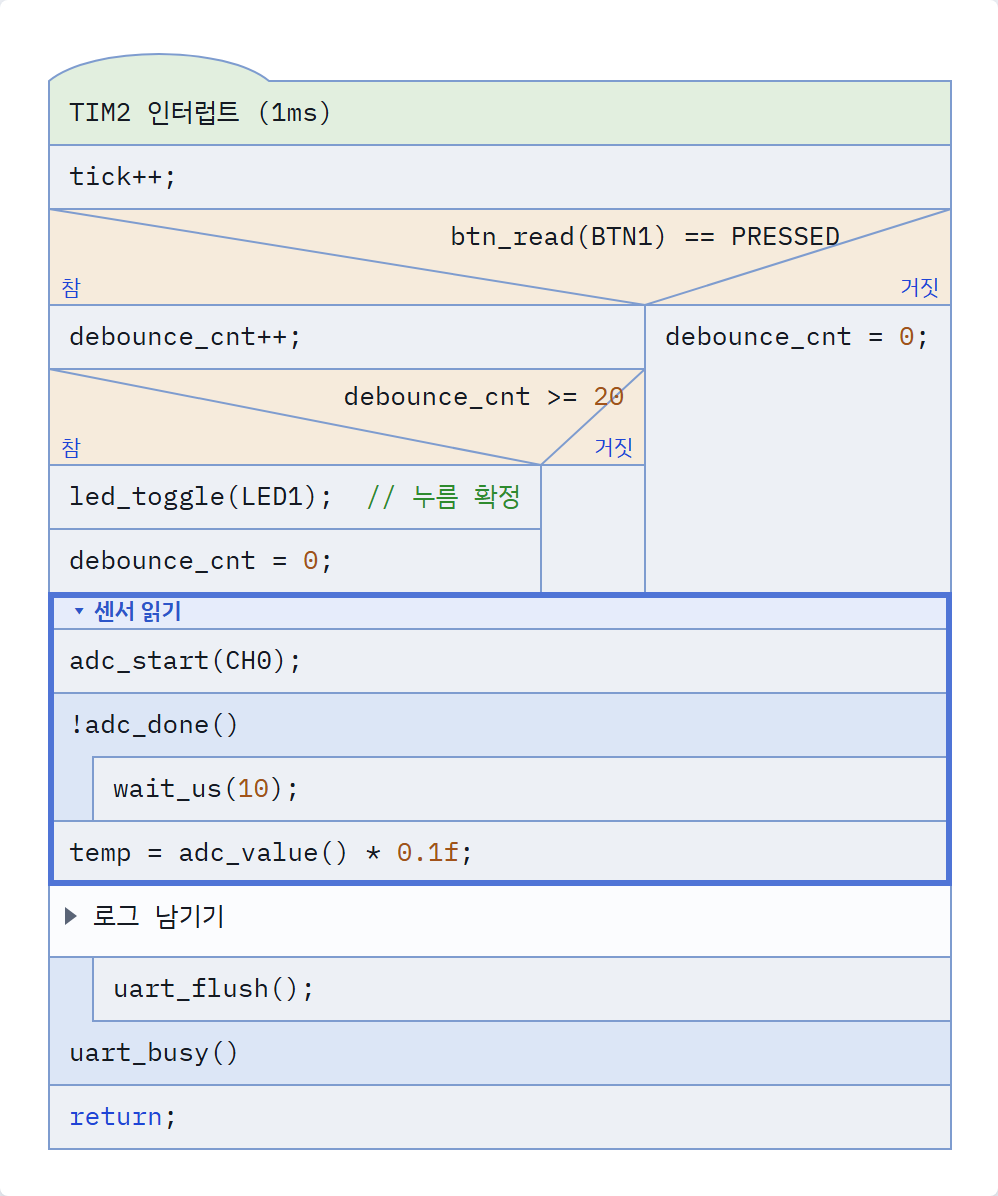
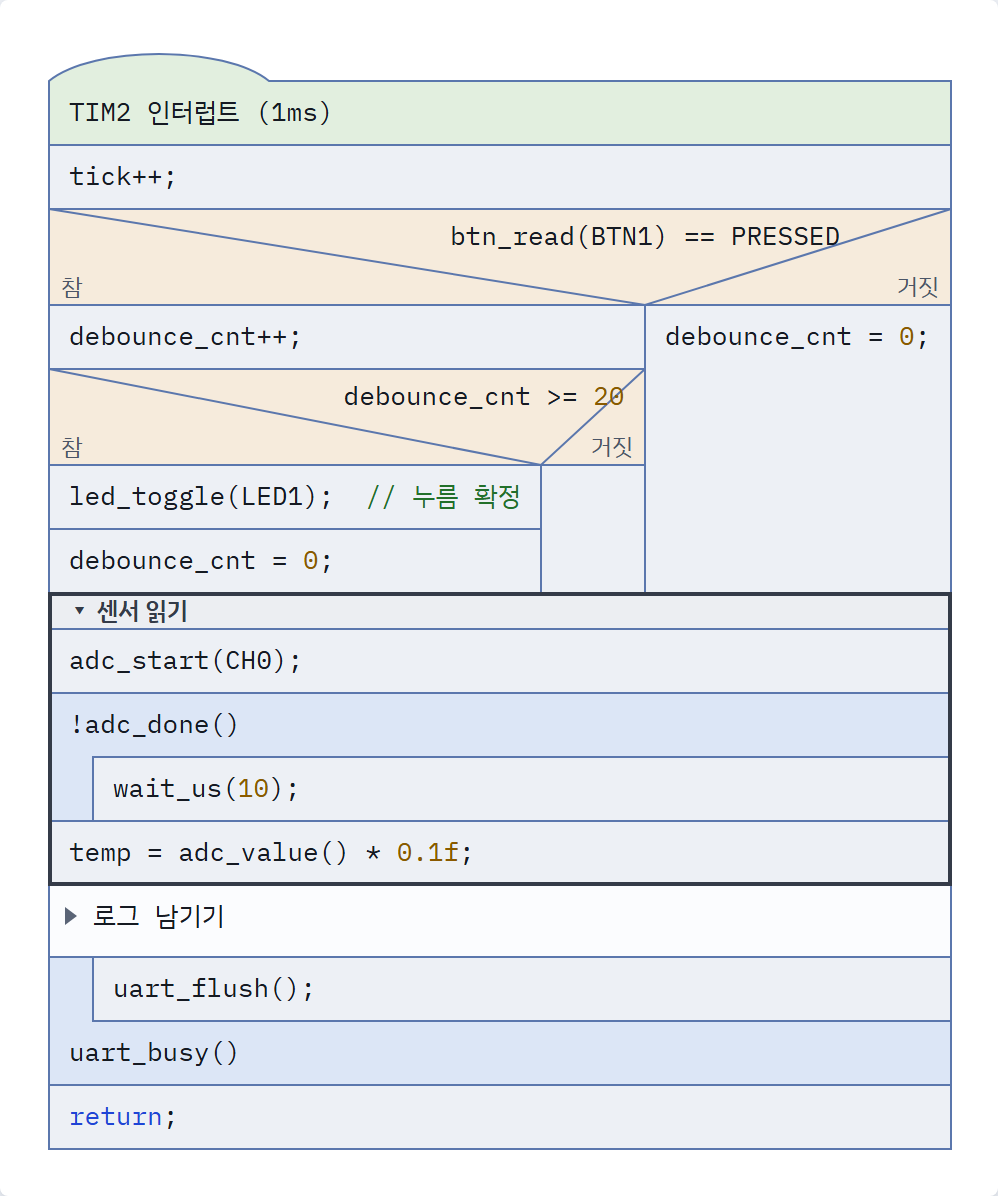
프로토타입 53번째 판: 시각 디자인 점검을 반영(구조선 · 주석 · 숫자 · 펴 보인 글자의 대비, 접기 영역은 무채색 2px, 고른 표시는 바탕 없이, 작은 글자 12px, 고른 것이 없을 때 캔버스 포커스). 시험 5개 더함(169개 통과). 그림을 다시 찍고 색각 · 흑백 그림, 블록 해부도, 색 점검 스크립트를 더함. 52번째 판 그림은 journal/assets로

diff --git a/journal/assets/2026-10-10-ns-prototype.html b/journal/assets/2026-10-10-ns-prototype.html
@@ -50,6 +50,7 @@ kbd { font-family: var(--mono); font-size: 11.5px; border: 1px solid var(--line)
 
 .main { display: grid; grid-template-columns: minmax(0, 1fr) 340px; min-height: 0; }
 .stage { position: relative; overflow: auto; min-width: 0; background-color: var(--bg); background-image: radial-gradient(var(--dots) 1px, transparent 1px); background-size: 18px 18px; padding: 20px; outline: none; }
+.stage.nosel:focus-visible { box-shadow: inset 0 0 0 2px var(--accent); }
 .paper { position: relative; display: inline-block; background: var(--paper); border-radius: 4px; box-shadow: 0 1px 3px rgba(20,30,60,.12), 0 6px 20px rgba(20,30,60,.06); }
 .paper svg { display: block; user-select: none; }
 .opts { position: sticky; top: 0; left: 0; z-index: 3; display: flex; flex-wrap: wrap; gap: 6px 14px; align-items: center; margin-bottom: 14px; padding: 6px 10px; background: var(--panel); border: 1px solid var(--line); border-radius: 6px; width: fit-content; max-width: 100%; font-size: 13px; }
@@ -57,7 +58,7 @@ kbd { font-family: var(--mono); font-size: 11.5px; border: 1px solid var(--line)
 .zoom { display: flex; gap: 4px; align-items: center; }
 .zoom output { min-width: 3.5em; text-align: center; font-variant-numeric: tabular-nums; font-size: 12px; color: var(--muted); }
 
-#editor { position: absolute; z-index: 2; resize: none; overflow: hidden; border: 2px solid #2c55c9; border-radius: 2px; background: #ffffff; color: #151a22; outline: none; box-shadow: 0 2px 10px rgba(44,85,201,.25); line-height: 18px; white-space: pre; }
+#editor { position: absolute; z-index: 2; resize: none; overflow: hidden; border: 2px solid #2c55c9; border-radius: 2px; background: #ffffff; color: #151a22; outline: none; line-height: 18px; white-space: pre; }
 
 .side { border-left: 1px solid var(--line); background: var(--panel); overflow: auto; padding-block: 14px; padding-inline: 18px; min-width: 0; }
 .side h2 { font-size: 13px; font-weight: 600; margin: 18px 0 8px; letter-spacing: .02em; }
@@ -102,7 +103,7 @@ kbd { font-family: var(--mono); font-size: 11.5px; border: 1px solid var(--line)
 
 <div class="app">
   <header class="bar">
-    <div class="brand"><b>AriadneNSD</b><span>요구사항 점검용 프로토타입 · 버리는 코드 · <b id="edition">52번째 판</b></span></div>
+    <div class="brand"><b>AriadneNSD</b><span>요구사항 점검용 프로토타입 · 버리는 코드 · <b id="edition">53번째 판</b></span></div>
     <div class="grp">
       <button data-cmd="new" title="빈 다이어그램">새로</button>
       <button data-cmd="open" title=".ns.svg 파일 열기">열기</button>
@@ -207,7 +208,12 @@ kbd { font-family: var(--mono); font-size: 11.5px; border: 1px solid var(--line)
       </dl>
       <p>대문자는 <kbd>Shift</kbd>와 함께 누릅니다. 글자는 자판의 자리로 읽어서 한글 입력 상태에서도 같습니다. 두 번 누르는 키는 첫 키를 누르면 상태 줄 왼쪽에 그 키가 보이고, 맞지 않는 키나 <kbd>Esc</kbd>를 누르면 그만둡니다.</p>
 
-      <h2>이번에 바뀐 것 (10-15, 52번째 판)</h2>
+      <h2>이번에 바뀐 것 (10-17, 53번째 판)</h2>
+      <ul>
+        <li><b>색과 선을 시각 디자인 문서에 맞췄습니다.</b> 구조선 · 주석 · 숫자 · 펴 보인 글자의 색을 진하게 해 WCAG 대비를 맞췄습니다. 접기 영역의 테두리와 이름 띠는 고른 표시의 파랑과 섞이지 않게 무채색 2px로, 갈래 이름("참" · "거짓")은 키워드의 파랑과 섞이지 않게 회색으로 바꿨습니다. 고른 표시는 바탕을 칠하지 않고 테두리만 둡니다. 작은 글자는 모두 12px입니다. 고른 것이 없을 때 키보드로 캔버스에 오면 캔버스 안쪽에 테두리가 보입니다.</li>
+      </ul>
+
+      <h2>앞서 바뀐 것 (10-15, 52번째 판)</h2>
       <ul>
         <li><b>고른 것을 풀 수 있습니다.</b> <kbd>Esc</kbd>를 두 번 연속 누르거나, 다이어그램 바깥의 빈 캔버스를 누릅니다. 한 번만 누르면 상태 줄에 안내가 뜹니다. 글자를 고치다 누른 <kbd>Esc</kbd>(받아들이기)는 세지 않습니다. 풀린 뒤 이동 키를 누르면 마지막에 골랐던 블록부터 다시 고릅니다.</li>
         <li><b>휠로 블록을 옮겨 다닙니다.</b> 블록을 골랐으면 휠 한 칸이 <kbd>j</kbd> · <kbd>k</kbd> 한 번과 같습니다(<kbd>v</kbd> 영역 고르기 중에는 영역을 넓힙니다). 고르지 않았으면 전처럼 캔버스를 스크롤합니다. 가로 휠과 <kbd>Shift</kbd>+휠은 늘 스크롤입니다.</li>
@@ -768,7 +774,7 @@ function firstIn(list) {
 }
 
 /* ---------- 레이아웃 ---------- */
-const K = { padX: 10, padY: 7, lh: 18, strip: 22, ifLab: 16, hat: 16, minW: 52, bar: 7, gap: 44, colMin: 420, band: 18, caseLab: 28, rb: 3, rgap: 1 };
+const K = { padX: 10, padY: 7, lh: 18, strip: 22, ifLab: 16, hat: 16, minW: 52, bar: 7, gap: 44, colMin: 420, band: 18, caseLab: 28, rb: 2, rgap: 1 };
 const RIN = K.rb + K.rgap;   // 테두리 안에 겹친 테두리가 들어가는 깊이: 테두리 굵기 + 틈
 const FAM_MONO = "IBM Plex Mono, IBM Plex Sans KR, Consolas, Malgun Gothic, monospace";
 const FAM_SANS = "IBM Plex Sans KR, Malgun Gothic, Apple SD Gothic Neo, sans-serif";
@@ -781,9 +787,9 @@ function tsize(text) {
   lines.forEach(l => { w = Math.max(w, cv.measureText(l).width); });
   return { w: Math.ceil(w), h: lines.length * K.lh, lines };
 }
-function tagW(text) { cv.font = `600 11.5px ${FAM_SANS}`; return Math.ceil(cv.measureText(String(text)).width); }
+function tagW(text) { cv.font = `600 12px ${FAM_SANS}`; return Math.ceil(cv.measureText(String(text)).width); }
 function boldW(text) { cv.font = `600 13px ${fam()}`; return Math.ceil(cv.measureText(String(text)).width); }
-function smallW(text, bold) { cv.font = `${bold ? '600 ' : ''}11.5px ${fam()}`; return Math.ceil(cv.measureText(String(text)).width); }
+function smallW(text, bold) { cv.font = `${bold ? '600 ' : ''}12px ${fam()}`; return Math.ceil(cv.measureText(String(text)).width); }
 // 호출 블록의 글자: 결과 ← 이름(인자). 이름은 굵게 그린다. 이어진 곳이 없으면 앞에 "?"
 function callParts(n) {
   const t = n.target != null ? dia(n.target) : null, alive = isMethod(t);
@@ -993,10 +999,12 @@ function layout() {
 
 /* ---------- 그리기 (기본 스타일 C, ADR-0013) ---------- */
 const COL = {
-  stroke: '#7e9ccf', process: '#edf0f5', if: '#f6ebdc', loop: '#dce6f6', event: '#e2efdf',
-  ink: '#151a22', label: '#1f45d6', kw: '#1f45d6', cm: '#2e8b2e', num: '#a1531b', str: '#a1531b',
-  call: '#ebe7f4', muted: '#5a6476', fold: '#fbfcfe', region: '#d0821c', ghost: '#8a93a6', sel: '#2c55c9',
-  edge: '#4f74d6', callEdge: '#8a72c4', callBand: '#ddd4ef', shown: '#6b7386'   // 접기 영역의 테두리, 펴 보인 호출 블록의 점선과 띠, 펴 보인 블록의 글자
+  // 값과 까닭은 docs/02-ux-design/03-visual-design.md (53번째 판에서 WCAG 대비를 맞춤)
+  stroke: '#5b77ad', process: '#edf0f5', if: '#f6ebdc', loop: '#dce6f6', event: '#e2efdf',
+  ink: '#151a22', label: '#4b5567', kw: '#1f45d6', cm: '#22702a', num: '#8a5a00', str: '#8a5a00',
+  call: '#ebe7f4', muted: '#5a6476', fold: '#fbfcfe', sel: '#2c55c9',   // sel은 편집 층(저장되지 않음)에만 쓴다
+  edge: '#343b48', foldBand: '#eceef2', foldName: '#343b48',            // 접기 영역의 테두리, 이름 띠, 띠의 글자 (문서 층이라 무채색)
+  callEdge: '#7a5fb8', callBand: '#ddd4ef', shown: '#555e70'            // 펴 보인 호출 블록의 점선과 띠, 펴 보인 블록의 글자
 };
 let ink = COL.ink;   // 지금 그리는 블록의 글자 색. 펴 보인 블록은 회색으로, 구문 강조 없이 그린다
 const KW = new Set(('if else while for do return break continue switch case default true false null NULL ' +
@@ -1056,8 +1064,8 @@ function drawSVG(lay, ui) {
       s.push(rect(it.x, it.y, it.w, it.h, '#ffffff', ' pointer-events="none"'));
       s.push(`<rect x="${it.x + .5}" y="${it.y + .5}" width="${it.w - 1}" height="${it.band - .5}" fill="${COL.callBand}"${da(it.id)}/>`);
       s.push(`<line x1="${it.x}" y1="${it.y + it.band}" x2="${it.x + it.w}" y2="${it.y + it.band}" stroke="${COL.stroke}" stroke-width="1" pointer-events="none"/>`);
-      s.push(`<text x="${it.x + 10}" y="${it.y + it.band - 5}" font-family="${fam()}" font-size="11.5" fill="${ink}" xml:space="preserve" style="white-space:pre" pointer-events="none">▾ ${esc(p.pre)}<tspan font-weight="600">${esc(p.name)}</tspan>${esc(p.post)}</text>`);
-      over.push(`<rect data-dash="${it.id}" ${e} stroke="#ffffff" stroke-width="${K.rb}"/>`, `<rect ${e} stroke="${COL.callEdge}" stroke-width="1.5" stroke-dasharray="6 4"/>`);
+      s.push(`<text x="${it.x + 10}" y="${it.y + it.band - 5}" font-family="${fam()}" font-size="12" fill="${ink}" xml:space="preserve" style="white-space:pre" pointer-events="none">▾ ${esc(p.pre)}<tspan font-weight="600">${esc(p.name)}</tspan>${esc(p.post)}</text>`);
+      over.push(`<rect data-dash="${it.id}" ${e} stroke="#ffffff" stroke-width="3"/>`, `<rect ${e} stroke="${COL.callEdge}" stroke-width="1" stroke-dasharray="6 4"/>`);
     } else if (it.k === 'loop') {
       s.push(rect(it.x, it.y, it.w, it.h, COL.loop, da(it.id)));
       s.push(txt(it.text, it.x + K.padX, (it.bottom ? it.y + it.h - it.headH : it.y) + K.padY));
@@ -1067,8 +1075,8 @@ function drawSVG(lay, ui) {
       s.push(`<path d="M ${x} ${y} L ${sx} ${y + h} L ${x + w} ${y}" fill="none" stroke="${COL.stroke}" stroke-width="1" pointer-events="none"/>`);
       const cx = Math.min(Math.max(sx, x + t.w / 2 + K.padX), x + w - t.w / 2 - K.padX);
       s.push(txt(it.text, cx, y + K.padY - 2, 'middle'));
-      s.push(`<text x="${x + 6}" y="${y + h - 5}" font-family="${FAM_SANS}" font-size="11" fill="${COL.label}" pointer-events="none">참</text>`);
-      s.push(`<text x="${x + w - 6}" y="${y + h - 5}" text-anchor="end" font-family="${FAM_SANS}" font-size="11" fill="${COL.label}" pointer-events="none">거짓</text>`);
+      s.push(`<text x="${x + 6}" y="${y + h - 5}" font-family="${FAM_SANS}" font-size="12" fill="${COL.label}" pointer-events="none">참</text>`);
+      s.push(`<text x="${x + w - 6}" y="${y + h - 5}" text-anchor="end" font-family="${FAM_SANS}" font-size="12" fill="${COL.label}" pointer-events="none">거짓</text>`);
     } else if (it.k === 'caseHead') {
       // NS 차트의 Case 머리: 왼쪽 위에서 default 갈래의 왼쪽 아래로 긴 빗금, 오른쪽 위에서 같은 점으로 짧은 빗금.
       // 갈래 사이의 세로선은 빗금에서 아래로 내려온다. 갈래 이름은 빗금 아래 오른쪽 구석(default는 왼쪽 구석)에 적는다
@@ -1084,11 +1092,11 @@ function drawSVG(lay, ui) {
       xs.forEach(([bx, lw], i) => {
         const dflt = i === xs.length - 1;
         if (ui) s.push(`<rect x="${bx}" y="${y + h - 20}" width="${lw}" height="20" fill="#ffffff" fill-opacity="0" data-id="${it.id}" data-label="${i}" style="cursor:text"/>`);
-        s.push(`<text x="${dflt ? bx + 6 : bx + lw - 5}" y="${y + h - 5}"${dflt ? '' : ' text-anchor="end"'} font-family="${FAM_SANS}" font-size="11" fill="${COL.label}" pointer-events="none">${esc(it.labels[i])}</text>`);
+        s.push(`<text x="${dflt ? bx + 6 : bx + lw - 5}" y="${y + h - 5}"${dflt ? '' : ' text-anchor="end"'} font-family="${FAM_SANS}" font-size="12" fill="${COL.label}" pointer-events="none">${esc(it.labels[i])}</text>`);
       });
     } else if (it.k === 'foldRow') {
       s.push(rect(it.x, it.y, it.w, it.h, COL.fold, ui ? ` data-id="${it.pid}" data-unfold="1"${it.slot ? ` data-slot="${it.slot}"` : ''}` : ''));
-      s.push(`<text x="${it.x + K.padX}" y="${it.y + K.padY + K.lh - 5}" font-family="${FAM_SANS}" font-size="12.5"${it.named ? '' : ' font-style="italic"'} fill="${it.named ? COL.ink : COL.muted}" xml:space="preserve" style="white-space:pre" pointer-events="none">${esc(it.text)}</text>`);
+      s.push(`<text x="${it.x + K.padX}" y="${it.y + K.padY + K.lh - 5}" font-family="${FAM_SANS}" font-size="12"${it.named ? '' : ' font-style="italic"'} fill="${it.named ? COL.ink : COL.muted}" xml:space="preserve" style="white-space:pre" pointer-events="none">${esc(it.text)}</text>`);
     } else if (it.k === 'rangeFold') {
       const { x, y, w, h } = it;
       s.push(rect(x, y, w, h, COL.fold, da(it.id)));
@@ -1098,23 +1106,20 @@ function drawSVG(lay, ui) {
   }
   ink = COL.ink;
   s.push(...over);
-  // 강조 영역: 레이아웃이 끝난 뒤 굵은 테두리만 덧그린다 (ADR-0015). 안으로 들여 그려서 맞붙은 영역도 따로 보인다
-  for (const r of lay.regions)
-    s.push(`<rect x="${r.x + 3}" y="${r.y + 3}" width="${r.w - 6}" height="${r.h - 6}" fill="none" stroke="${COL.region}" stroke-width="3" rx="2" pointer-events="none"/>`);
   {
     // 이름 띠는 저장되는 그림에도 그린다 (화면 그대로 저장)
-    const view = regionView(), c = COL.sel, used = new Map();
-    const tag = (x, y, text, anchor) => `<text x="${x}" y="${y}"${anchor ? ` text-anchor="${anchor}"` : ''} font-family="${FAM_SANS}" font-size="11.5" font-weight="600" fill="${c}" stroke="#ffffff" stroke-width="3.5" paint-order="stroke" pointer-events="none">${esc(text)}</text>`;
+    const view = regionView(), c = COL.foldName, used = new Map();
+    const tag = (x, y, text, anchor) => `<text x="${x}" y="${y}"${anchor ? ` text-anchor="${anchor}"` : ''} font-family="${FAM_SANS}" font-size="12" font-weight="600" fill="${c}" stroke="#ffffff" stroke-width="3.5" paint-order="stroke" pointer-events="none">${esc(text)}</text>`;
     for (const g of lay.ghosts) {
       const d = 2.5 + (g.depth || 0) * 4;
       if (view === 'band') {
         // 이름 띠: 영역 맨 위에 이름 줄을 하나 더한다. 블록 글자와 겹치지 않지만 그림이 그만큼 길어진다
         // 테두리: 영역의 둘레를 굵은 실선으로 두른다. 겹치거나 이어져도 상자가 따로 보인다. 누르는 곳은 띠다
         const hit = ui ? ` data-id="${g.id}" data-band="1" style="cursor:pointer"` : '';
-        s.push(`<rect x="${g.x - .5}" y="${g.y - .5}" width="${g.w + 1}" height="${g.band + .5}" fill="#e6ecfb"${hit}/>`);
+        s.push(`<rect x="${g.x - .5}" y="${g.y - .5}" width="${g.w + 1}" height="${g.band + .5}" fill="${COL.foldBand}"${hit}/>`);
         s.push(`<line x1="${g.x}" y1="${g.y + g.band}" x2="${g.x + g.w}" y2="${g.y + g.band}" stroke="${COL.stroke}" stroke-width="1" pointer-events="none"/>`);
-        s.push(`<rect data-edge="${g.id}" x="${g.x + 1}" y="${g.y + 1}" width="${g.w - 2}" height="${g.h - 2}" fill="none" stroke="${COL.edge}" stroke-width="${K.rb}" pointer-events="none"/>`);
-        s.push(`<text x="${g.x + 10}" y="${g.y + g.band - 5}" font-family="${FAM_SANS}" font-size="11.5" font-weight="600"${g.named ? '' : ' font-style="italic"'} fill="${c}" pointer-events="none">▾ ${esc(g.text)}</text>`);
+        s.push(`<rect data-edge="${g.id}" x="${g.x + .5}" y="${g.y + .5}" width="${g.w - 1}" height="${g.h - 1}" fill="none" stroke="${COL.edge}" stroke-width="${K.rb}" pointer-events="none"/>`);
+        s.push(`<text x="${g.x + 10}" y="${g.y + g.band - 5}" font-family="${FAM_SANS}" font-size="12" font-weight="600"${g.named ? '' : ' font-style="italic"'} fill="${c}" pointer-events="none">▾ ${esc(g.text)}</text>`);
         continue;
       }
       s.push(`<rect x="${g.x + d}" y="${g.y + d}" width="${g.w - 2 * d}" height="${g.h - 2 * d}" fill="none" stroke="${c}" stroke-width="1.5" stroke-dasharray="5 3"${view === 'gutter' ? ' stroke-opacity="0.55"' : ''} pointer-events="none"/>`);
@@ -1135,7 +1140,7 @@ function drawSVG(lay, ui) {
       if (boxes.every(Boolean)) {
         const x1 = Math.min(...boxes.map(b => b.x)), y1 = Math.min(...boxes.map(b => b.y));
         const x2 = Math.max(...boxes.map(b => b.x + b.w)), y2 = Math.max(...boxes.map(b => b.y + b.h));
-        s.push(`<rect data-selbox="" x="${x1 + 1}" y="${y1 + 1}" width="${x2 - x1 - 2}" height="${y2 - y1 - 2}" fill="${COL.sel}" fill-opacity="0.10" stroke="${COL.sel}" stroke-width="2" pointer-events="none"/>`);
+        s.push(`<rect data-selbox="" x="${x1 + .5}" y="${y1 + .5}" width="${x2 - x1 - 1}" height="${y2 - y1 - 1}" fill="none" stroke="${COL.sel}" stroke-width="2" pointer-events="none"/>`);
       }
     }
   }
@@ -1150,6 +1155,7 @@ function render() {
   svg.innerHTML = drawSVG(lay, true);
   $('#zoomOut').textContent = Math.round(zoom * 100) + '%';
   $('#where').textContent = describeSel();
+  $('.stage').classList.toggle('nosel', !sel);
   showMode();
   if (sel && diaOf(sel.anchor)) lastDia = diaOf(sel.anchor).id;
 }

diff --git a/journal/assets/2026-10-17-visual-anatomy.py b/journal/assets/2026-10-17-visual-anatomy.py
@@ -1,0 +1,113 @@
+# 시각 디자인 문서의 블록 해부도를 그린다: 블록마다 치수(프로토타입의 K 값)를 단 SVG
+# 쓰는 법: py 2026-10-17-visual-anatomy.py <내보낼 svg 경로>
+# 치수는 journal/assets/2026-10-10-ns-prototype.html의 K와 COL(53번째 판)과 같아야 한다
+import sys
+
+K = dict(padX=10, padY=7, lh=18, strip=22, ifLab=16, hat=16, bar=7, band=18, rb=2, rgap=1)
+C = dict(stroke='#5b77ad', process='#edf0f5', branch='#f6ebdc', loop='#dce6f6', event='#e2efdf', call='#ebe7f4',
+         ink='#151a22', label='#4b5567', edge='#343b48', foldBand='#eceef2', foldName='#343b48',
+         callEdge='#7a5fb8', callBand='#ddd4ef', shown='#555e70')
+DIM = '#c2410c'   # 치수선: 다이어그램의 어느 색과도 겹치지 않는 주황
+MONO = 'IBM Plex Mono, IBM Plex Sans KR, Consolas, monospace'
+SANS = 'IBM Plex Sans KR, Malgun Gothic, sans-serif'
+out = []
+def a(s): out.append(s)
+def rect(x, y, w, h, fill, extra=''): a(f'<rect x="{x}" y="{y}" width="{w}" height="{h}" fill="{fill}" stroke="{C["stroke"]}" stroke-width="1"{extra}/>')
+def text(x, y, s, size=13, fill=C['ink'], fam=MONO, extra=''): a(f'<text x="{x}" y="{y}" font-family="{fam}" font-size="{size}" fill="{fill}"{extra}>{s}</text>')
+def title(x, y, s): text(x, y, s, 13, '#1c2230', SANS, ' font-weight="600"')
+def hdim(x1, x2, y, label, up=True):
+    a(f'<path d="M{x1} {y} H{x2} M{x1} {y-3} V{y+3} M{x2} {y-3} V{y+3}" stroke="{DIM}" stroke-width="1" fill="none"/>')
+    text((x1 + x2) / 2, y - 4 if up else y + 12, label, 10, DIM, SANS, ' text-anchor="middle"')
+def vdim(x, y1, y2, label, right=True):
+    a(f'<path d="M{x} {y1} V{y2} M{x-3} {y1} H{x+3} M{x-3} {y2} H{x+3}" stroke="{DIM}" stroke-width="1" fill="none"/>')
+    text(x + 5 if right else x - 5, (y1 + y2) / 2 + 3.5, label, 10, DIM, SANS, '' if right else ' text-anchor="end"')
+
+W = 230   # 블록 폭
+# 1. 처리
+x, y = 70, 60
+title(x, y - 24, '처리')
+rect(x, y, W, 2 * K['padY'] + K['lh'], C['process'])
+text(x + K['padX'], y + K['padY'] + K['lh'] - 5, 'tick++;')
+hdim(x, x + K['padX'], y - 6, 'padX 10')
+vdim(x + W + 10, y, y + K['padY'], 'padY 7')
+vdim(x + W + 60, y + K['padY'], y + K['padY'] + K['lh'], '줄 18')
+vdim(x - 10, y, y + 32, '32', right=False)
+
+# 2. If
+x, y = 400, 60
+title(x, y - 24, 'If')
+h = 2 * K['padY'] + K['lh'] + K['ifLab'] - 2; sx = x + 150
+rect(x, y, W, h, C['branch'])
+a(f'<path d="M{x} {y} L{sx} {y+h} L{x+W} {y}" fill="none" stroke="{C["stroke"]}" stroke-width="1"/>')
+text(sx, y + K['padY'] + K['lh'] - 7, 'btn == PRESSED', 13, C['ink'], MONO, ' text-anchor="middle"')
+text(x + 6, y + h - 5, '참', 12, C['label'], SANS); text(x + W - 6, y + h - 5, '거짓', 12, C['label'], SANS, ' text-anchor="end"')
+rect(x, y + h, sx - x, 32, C['process']); rect(sx, y + h, x + W - sx, 32, C['process'])
+vdim(x + W + 10, y + h - K['ifLab'], y + h, '갈래 이름 줄 16')
+hdim(x, x + 6, y + h + 44, '6', up=False)
+text(x, y + h + 74, '빗금의 꼭짓점 = 두 갈래의 경계', 10, DIM, SANS)
+text(x, y + h + 88, '조건은 그 위 가운데, 갈래 이름은 12px', 10, DIM, SANS)
+
+# 3. While
+x, y = 70, 250
+title(x, y - 24, 'While (Do-While은 머리가 아래)')
+rect(x, y, W, 96, C['loop'])
+text(x + K['padX'], y + K['padY'] + K['lh'] - 5, 'j &lt; hi')
+rect(x + K['strip'], y + 32, W - K['strip'], 32, C['process']); rect(x + K['strip'], y + 64, W - K['strip'], 32, C['process'])
+text(x + K['strip'] + K['padX'], y + 32 + K['padY'] + K['lh'] - 5, 'i++;')
+hdim(x, x + K['strip'], y + 110, '띠 22', up=False)
+
+# 4. 호출 블록
+x, y = 400, 250
+title(x, y - 24, '호출 블록')
+rect(x, y, W, 32, C['call'])
+for bx in (x + K['bar'], x + W - K['bar']): a(f'<line x1="{bx}" y1="{y}" x2="{bx}" y2="{y+32}" stroke="{C["stroke"]}" stroke-width="1"/>')
+text(x + K['padX'] + K['bar'], y + K['padY'] + K['lh'] - 5, 'p ← <tspan font-weight="700">partition</tspan>(a, lo)')
+hdim(x, x + K['bar'], y - 6, '7')
+text(x, y + 50, '이름은 굵게, 인자와 결과는 보통 (ADR-0022)', 10, DIM, SANS)
+text(x, y + 64, '부를 Method가 없으면 이중선이 점선', 10, DIM, SANS)
+
+# 5. Event 머리 / Method 머리
+x, y = 70, 440
+title(x, y - 34, 'Event 머리 · Method 머리')
+top = y + K['hat']; bw = min(110, W * 0.45)
+a(f'<path d="M{x} {top} C{x+22} {y-2},{x+bw-22} {y-2},{x+bw} {top} L{x+W} {top} L{x+W} {top+32} L{x} {top+32} Z" fill="{C["event"]}" stroke="{C["stroke"]}" stroke-width="1"/>')
+text(x + K['padX'], top + K['padY'] + K['lh'] - 5, 'TIM2 인터럽트')
+vdim(x - 10, y, top, '모자 16', right=False)
+hdim(x, x + bw, y - 8, 'min(110, 폭×0.45)')
+y2 = y + 80; top = y2 + K['hat']
+a(f'<path d="M{x} {top} C{x+W*0.2} {y2+1},{x+W*0.8} {y2+1},{x+W} {top} L{x+W} {top+32} L{x} {top+32} Z" fill="{C["call"]}" stroke="{C["stroke"]}" stroke-width="1"/>')
+text(x + K['padX'], top + K['padY'] + K['lh'] - 5, 'partition(a, lo, hi)')
+text(x, top + 50, 'Method는 폭 전체의 낮은 아치, 색은 호출 블록과 같음', 10, DIM, SANS)
+
+# 6. 펴진 접기 영역과 펴 보인 호출 블록
+x, y = 400, 420
+title(x, y - 24, '펴진 접기 영역 · 펴 보인 호출 블록')
+a(f'<rect x="{x}" y="{y}" width="{W}" height="{K["band"]}" fill="{C["foldBand"]}"/>')
+a(f'<line x1="{x}" y1="{y+K["band"]}" x2="{x+W}" y2="{y+K["band"]}" stroke="{C["stroke"]}" stroke-width="1"/>')
+text(x + 10, y + K['band'] - 5, '▾ 센서 읽기', 12, C['foldName'], SANS, ' font-weight="600"')
+rect(x, y + K['band'], W, 32, C['process']); text(x + K['padX'], y + K['band'] + K['padY'] + K['lh'] - 5, 'adc_start(CH0);')
+a(f'<rect x="{x+.5}" y="{y+.5}" width="{W-1}" height="{K["band"]+31}" fill="none" stroke="{C["edge"]}" stroke-width="2"/>')
+vdim(x + W + 10, y, y + K['band'], '띠 18')
+text(x + W + 6, y + 40, '테두리 2px 실선', 10, DIM, SANS)
+y3 = y + 90
+rect(x, y3, W, K['band'] + 32, '#ffffff')
+a(f'<rect x="{x+.5}" y="{y3+.5}" width="{W-1}" height="{K["band"]-.5}" fill="{C["callBand"]}"/>')
+a(f'<line x1="{x}" y1="{y3+K["band"]}" x2="{x+W}" y2="{y3+K["band"]}" stroke="{C["stroke"]}" stroke-width="1"/>')
+text(x + 10, y3 + K['band'] - 5, '▾ p ← <tspan font-weight="600">partition</tspan>(a, lo)', 12, C['shown'])
+text(x + K['padX'] + 4, y3 + K['band'] + K['padY'] + K['lh'] - 5, 'pivot = a[hi];', 13, C['shown'])
+a(f'<rect x="{x+2}" y="{y3+2}" width="{W-4}" height="{K["band"]+28}" fill="none" stroke="#ffffff" stroke-width="3"/>')
+a(f'<rect x="{x+2}" y="{y3+2}" width="{W-4}" height="{K["band"]+28}" fill="none" stroke="{C["callEdge"]}" stroke-width="1" stroke-dasharray="6 4"/>')
+text(x + W + 6, y3 + 22, '점선 1px (6 · 4)', 10, DIM, SANS)
+text(x + W + 6, y3 + 36, '바깥 선에서 1px 안', 10, DIM, SANS)
+text(x + W + 6, y3 + 50, '글자는 회색, 강조 없음', 10, DIM, SANS)
+
+body = '\n'.join(out)
+svg = f'''<svg xmlns="http://www.w3.org/2000/svg" width="780" height="640" viewBox="0 0 780 640">
+<rect width="780" height="640" fill="#ffffff"/>
+<g transform="translate(.5 .5)">
+{body}
+</g>
+</svg>
+'''
+open(sys.argv[1], 'w', encoding='utf-8', newline='\n').write(svg)
+print('saved', sys.argv[1])

diff --git a/journal/assets/2026-10-17-color-check.py b/journal/assets/2026-10-17-color-check.py
@@ -1,0 +1,45 @@
+# 시각 디자인 문서의 색 점검: WCAG 명도 대비와 색각 이상 시뮬레이션(Machado 2009, 심한 정도 1.0) 뒤의 색 차이(CIEDE2000이 아닌 CIE76 ΔE)
+# 쓰는 법: py 2026-10-17-color-check.py
+import itertools, math
+M = {
+ 'protan': [[0.152286,1.052583,-0.204868],[0.114503,0.786281,0.099216],[-0.003882,-0.048116,1.051998]],
+ 'deutan': [[0.367322,0.860646,-0.227968],[0.280085,0.672501,0.047413],[-0.011820,0.042940,0.968881]],
+ 'tritan': [[1.255528,-0.076749,-0.178779],[-0.078411,0.930809,0.147602],[0.004733,0.691367,0.303900]],
+}
+def lin(h): return [ (x/12.92 if x<=0.04045 else ((x+0.055)/1.055)**2.4) for x in (int(h[i:i+2],16)/255 for i in (1,3,5))]
+def lum(c): return 0.2126*c[0]+0.7152*c[1]+0.0722*c[2]
+def cr(a,b):
+    x,y=sorted([lum(lin(a)),lum(lin(b))],reverse=True); return (x+.05)/(y+.05)
+def lab(c):
+    X=0.4124*c[0]+0.3576*c[1]+0.1805*c[2]; Y=0.2126*c[0]+0.7152*c[1]+0.0722*c[2]; Z=0.0193*c[0]+0.1192*c[1]+0.9505*c[2]
+    f=lambda t: t**(1/3) if t>0.008856 else 7.787*t+16/116
+    fx,fy,fz=f(X/0.95047),f(Y),f(Z/1.08883); return (116*fy-16,500*(fx-fy),200*(fy-fz))
+def sim(c,k): m=M[k]; return [max(0,min(1,sum(m[i][j]*c[j] for j in range(3)))) for i in range(3)]
+def dE(a,b): return math.dist(lab(a),lab(b))
+def report(name, cols):
+    print('==', name)
+    for (n1,h1),(n2,h2) in itertools.combinations(cols.items(),2):
+        a,b=lin(h1),lin(h2)
+        row=[f'{dE(a,b):5.1f}']+[f'{dE(sim(a,k),sim(b,k)):5.1f}' for k in M]
+        print(f'{n1:>10} / {n2:<10} ΔE normal {row[0]}  protan {row[1]} deutan {row[2]} tritan {row[3]}')
+if __name__=='__main__':
+    import sys
+    fills={'process':'#edf0f5','branch':'#f6ebdc','loop':'#dce6f6','event':'#e2efdf','call':'#ebe7f4'}
+    report('블록 바탕', fills)
+    report('구문 강조 (바탕 #edf0f5)', {'text':'#151a22','keyword':'#1f45d6','comment':'#2e8b2e','literal':'#a1531b'})
+
+# 53번째 판의 문서 색: 글자와 선을 모든 바탕에 대어 본 대비 (가장 낮은 값이 기준을 넘는지)
+FILLS = {'paper':'#ffffff','process':'#edf0f5','branch':'#f6ebdc','loop':'#dce6f6','event':'#e2efdf','call':'#ebe7f4','folded':'#fbfcfe','fold.band':'#eceef2','peek.band':'#ddd4ef'}
+FG = {'text':'#151a22','text.label':'#4b5567','text.muted':'#5a6476','syntax.keyword':'#1f45d6','syntax.comment':'#22702a','syntax.literal':'#8a5a00',
+      'fold.name':'#343b48','peek.text':'#555e70','line (3:1)':'#5b77ad','fold.edge (3:1)':'#343b48','peek.edge (3:1)':'#7a5fb8','edit.select (3:1)':'#2c55c9'}
+def L_star(h):
+    y=lum(lin(h)); return 116*(y**(1/3) if y>0.008856 else 7.787*y+16/116)-16
+if __name__=='__main__':
+    print('== 53번째 판 대비 (최저 / 최고, 바탕 블록 다섯과 종이)')
+    base=['paper','process','branch','loop','event','call']
+    for n,c in FG.items():
+        v=[cr(c,FILLS[b]) for b in base]
+        print(f'{n:>18} {c}  {min(v):.2f} ~ {max(v):.2f}   fold.band {cr(c,FILLS["fold.band"]):.2f}  peek.band {cr(c,FILLS["peek.band"]):.2f}')
+    print('== 흑백 명도 L* (0 검정 ~ 100 흰색)')
+    for n,c in FILLS.items(): print(f'{n:>10} {c} L*={L_star(c):.0f}')
+    print('selection vs fold.edge', round(cr('#2c55c9','#4b5567'),2))

diff --git a/atelier/inbox.md b/atelier/inbox.md
@@ -10,6 +10,7 @@
 > 프로토타입과 답을 기다리는 페이지의 주소는 [[status#바로 가기]]에, 시안과 스파이크 전체의 목록은 [[study-pages]]에 있습니다.
 
 # 1. 일하는 방식
+- 
 # 2. 배포 대상
 # 3. 기능
 ## 프로토타입
